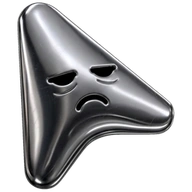
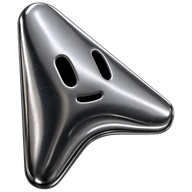
chore(mascots): reset bot faces and Head of Desk assets back to stock upstream OpenMausBot

Changed region(s): [[0.375, 0.25, 0.625, 0.5938], [0.2188, 0.2812, 0.4062, 0.5312]]

diff --git a/src/components/CursorAvatar.tsx b/src/components/CursorAvatar.tsx
@@ -335,14 +335,14 @@ export const POOLS = {
   surprised: [21, 3],
   suspicious: [5, 14, 23],
   angry: [7, 16],
-  drowsy: [4, 22, 13],
+  drowsy: [22, 4, 13],
   happy: [19, 2, 11, 17],
   curious: [21, 3, 0, 15],
   confused: [8, 14, 5],
-  bored: [22, 4, 13],
+  bored: [0, 4, 22],
   proud: [2, 15, 8],
   shy: [24, 0, 13],
-  sad: [13, 22, 4],
+  sad: [22, 4, 13],
   laughing: [2, 11, 17],
   scared: [21, 3],
   playful: [2, 17, 11, 8],
@@ -584,8 +584,6 @@ export const CursorAvatar = React.forwardRef<CursorAvatarHandle, CursorAvatarPro
     const svg = useRef<SVGSVGElement | null>(null)
     const eye0 = useRef<SVGPathElement | null>(null)
     const eye1 = useRef<SVGPathElement | null>(null)
-    const bag0 = useRef<SVGPathElement | null>(null)
-    const bag1 = useRef<SVGPathElement | null>(null)
     const mouth = useRef<SVGPathElement | null>(null)
     const faceShift = useRef<SVGGElement | null>(null)
     const bodyGroup = useRef<SVGGElement | null>(null)
@@ -790,59 +788,27 @@ export const CursorAvatar = React.forwardRef<CursorAvatarHandle, CursorAvatarPro
         const base = p.eyeScale ?? 1
         const blink = blinkScale(e, now)
 
-        const tiredState = p.state === 'drowsy' || p.state === 'sad' || p.state === 'sleeping' || p.state === 'bored' || p.state === 'powering-down'
-
         rings.forEach((ring, index) => {
           const el = index === 0 ? eye0.current : eye1.current
-          const bagEl = index === 0 ? bag0.current : bag1.current
           if (!el) return
           const c = ringCentre(ring)
           const baseLongitude = Math.asin(clamp((c[0] - SPHERE_C) / SPHERE_R, -1, 1))
           const longitude = baseLongitude + radians
           const depth = Math.cos(longitude)
           const perspective = Math.max(depth, 0.02) / Math.max(Math.cos(baseLongitude), 0.02)
-          const eyeTransform = `translate(${(SPHERE_C + SPHERE_R * Math.sin(longitude) + gx).toFixed(2)} ${(
-            c[1] + gy
-          ).toFixed(2)}) scale(${clamp(perspective * base, 0.02, 2.4).toFixed(4)} ${clamp(
-            blink * base,
-            0.02,
-            2.4
-          ).toFixed(4)}) translate(${(-c[0]).toFixed(2)} ${(-c[1]).toFixed(2)})`
           put(el, 'd', toPath(ring))
-          put(el, 'transform', eyeTransform)
+          put(
+            el,
+            'transform',
+            `translate(${(SPHERE_C + SPHERE_R * Math.sin(longitude) + gx).toFixed(2)} ${(
+              c[1] + gy
+            ).toFixed(2)}) scale(${clamp(perspective * base, 0.02, 2.4).toFixed(4)} ${clamp(
+              blink * base,
+              0.02,
+              2.4
+            ).toFixed(4)}) translate(${(-c[0]).toFixed(2)} ${(-c[1]).toFixed(2)})`
+          )
           put(el, 'opacity', depth > 0.02 ? '1' : '0')
-
-          if (bagEl) {
-            if (tiredState && depth > 0.02) {
-              let minX = Infinity
-              let maxX = -Infinity
-              let maxY = -Infinity
-              for (const pt of ring) {
-                if (pt[0] < minX) minX = pt[0]
-                if (pt[0] > maxX) maxX = pt[0]
-                if (pt[1] > maxY) maxY = pt[1]
-              }
-              const span = (maxX - minX) * 0.38
-              const bagY = maxY + 8.5
-              const sag = 8.5
-              const tilt = index === 0 ? 3.5 : -2.5
-              put(
-                bagEl,
-                'd',
-                `M${(c[0] - span).toFixed(2)} ${(bagY - tilt).toFixed(2)} Q${c[0].toFixed(2)} ${(bagY + sag).toFixed(2)} ${(c[0] + span).toFixed(2)} ${(bagY + tilt).toFixed(2)}`
-              )
-              put(
-                bagEl,
-                'transform',
-                `translate(${(SPHERE_C + SPHERE_R * Math.sin(longitude) + gx).toFixed(2)} ${(
-                  c[1] + gy
-                ).toFixed(2)}) scale(${clamp(perspective * base, 0.02, 2.4).toFixed(4)} ${clamp(base, 0.02, 2.4).toFixed(4)}) translate(${(-c[0]).toFixed(2)} ${(-c[1]).toFixed(2)})`
-              )
-              put(bagEl, 'opacity', '0.5')
-            } else {
-              put(bagEl, 'opacity', '0')
-            }
-          }
         })
 
         const mouthEl = mouth.current
@@ -1023,8 +989,6 @@ export const CursorAvatar = React.forwardRef<CursorAvatarHandle, CursorAvatarPro
       <g clipPath={`url(#${uid}-clip)`} visibility={picture ? 'hidden' : undefined}>
         <g transform={anchorTransform(silhouette.anchor)}><g ref={faceShift}>
           <path ref={eye0} fill={ink} /><path ref={eye1} fill={ink} />
-          <path ref={bag0} fill="none" stroke={ink} strokeWidth={5.2} strokeLinecap="round" opacity={0} />
-          <path ref={bag1} fill="none" stroke={ink} strokeWidth={5.2} strokeLinecap="round" opacity={0} />
           {showMouth && <path ref={mouth} fill="none" stroke={ink} strokeWidth={mouthStroke} strokeLinecap="round" />}
         </g></g>
       </g>

diff --git a/src/lib/mascot.ts b/src/lib/mascot.ts
@@ -161,17 +161,43 @@ export function stateForBot(bot: MascotBotProfile): MausState {
   const pinned = normalizeState(bot.mascotExpression);
   if (pinned) return pinned;
 
-  const lowerName = bot.name.trim().toLowerCase();
-  if (lowerName.includes("powell")) return "drowsy";
-  if (lowerName.includes("risk") || lowerName.includes("guardian")) return "sad";
-  if (lowerName.includes("journal") || lowerName.includes("replay")) return "sleeping";
-
   const last = lastNonReceipt(bot.messages);
 
-  if (isFailedStep(last)) return "sad";
-  if (bot.busy) return "drowsy";
-  if (botShowsUnread(bot)) return "drowsy";
-  if (last?.kind === "options") return "drowsy";
+  if (isFailedStep(last)) return "alerting";
+  if (bot.busy) return "working";
+  if (botShowsUnread(bot)) return "notifying";
+  if (last?.kind === "options") return "curious";
 
-  return "drowsy";
+  const profile = `${bot.name} ${bot.title ?? ""} ${bot.description ?? ""}`.toLowerCase();
+  const matches = (words: RegExp) => words.test(profile);
+
+  if (matches(/\b(code|coding|developer|development|engineer|engineering|build|debug|program|software)\b/)) {
+    return "working";
+  }
+  if (matches(/\b(research|researcher|search|investigate|strategy|strategist|study|learn|knowledge)\b/)) {
+    return "searching";
+  }
+  if (matches(/\b(marketing|growth|launch|campaign|social|sales|outreach|brand)\b/)) {
+    return "excited";
+  }
+  if (matches(/\b(overnight|night|background|async|queue|batch|long-running)\b/)) {
+    return "drowsy";
+  }
+  if (matches(/\b(monitor|monitoring|incident|alert|watch|status|uptime)\b/)) {
+    return "radar";
+  }
+  if (matches(/\b(review|reviewer|audit|critic|critique|quality|qa|test|legal)\b/)) {
+    return "suspicious";
+  }
+  if (matches(/\b(security|secure|compliance|risk|privacy|finance|financial)\b/)) {
+    return "scared";
+  }
+  if (matches(/\b(design|designer|creative|brainstorm|art|illustration|music|story)\b/)) {
+    return "playful";
+  }
+  if (matches(/\b(support|help|success|onboarding|coach|teacher|guide|welcome)\b/)) {
+    return "happy";
+  }
+
+  return "idle";
 }

diff --git a/packages/phone-protocol/src/cursor-face-data.ts b/packages/phone-protocol/src/cursor-face-data.ts
@@ -75,7 +75,7 @@ export const MOUTHS: number[][] = [
   [13,1,20,0],
   [25,14,13,0],
   [11,4,18,0],
-  [17,-11,24,-4],
+  [16,-2,22,0],
   [15,-3,20,6],
   [12,2,20,0],
   [17,-7,18,0],
@@ -84,7 +84,7 @@ export const MOUTHS: number[][] = [
   [14,1,20,0],
   [23,12,13,0],
   [12,2,20,0],
-  [15,-13,25,5],
+  [16,-3,22,0],
   [15,-2,20,-6],
   [12,5,20,0],
   [16,-4,18,0],
@@ -93,7 +93,7 @@ export const MOUTHS: number[][] = [
   [17,8,20,0],
   [15,5,10,0],
   [12,4,18,0],
-  [18,-12,24,-3],
+  [16,-3,22,0],
   [15,-5,20,7],
   [11,6,20,0],
 ]

diff --git a/FORK_MANIFEST.md b/FORK_MANIFEST.md
@@ -38,9 +38,8 @@ Whenever merging an upstream OpenMausBot release into this fork, **every customi
   - `server/instance-fleets.ts` — Trimmed `DEFAULT_FLEET` (Antigravity Gemini 4 Neon, Claude, Codex — no unwanted Cursor login popups).
   - `server/model-manifest/model-manifest.json` — Default model & fleet adjustments preserved.
 
-### D. Liquid-Chrome Exhausted Head of Desk Mascot
-- `src/assets/mausbot-steel/cursor-*.webp` — Custom exhausted chrome mascot images.
-- `src/components/CursorAvatar.tsx`, `src/lib/mascot.ts`, `packages/phone-protocol/src/cursor-face-data.ts` — Sleepy/exhausted trader face support.
+### D. Bot Mascots & Faces
+- Uses **stock upstream OpenMausBot** mascots and faces (`src/assets/mausbot-steel/*`, `src/components/CursorAvatar.tsx`, `src/lib/mascot.ts`, `packages/phone-protocol/src/cursor-face-data.ts`) — do not re-apply the old tired/sleepy eye-bag customization.
 
 ### E. Antigravity MCP Schema Guard & Inline Visuals
 - `server/tool-schema-profile.ts` & `server/tool-schema-profile.test.ts` — **CRITICAL:** Every array parameter in compacted MCP tool schemas MUST preserve its `items` field (otherwise Google Gemini Antigravity rejects requests with HTTP 400 `INVALID_ARGUMENT: ...items: missing field`).
